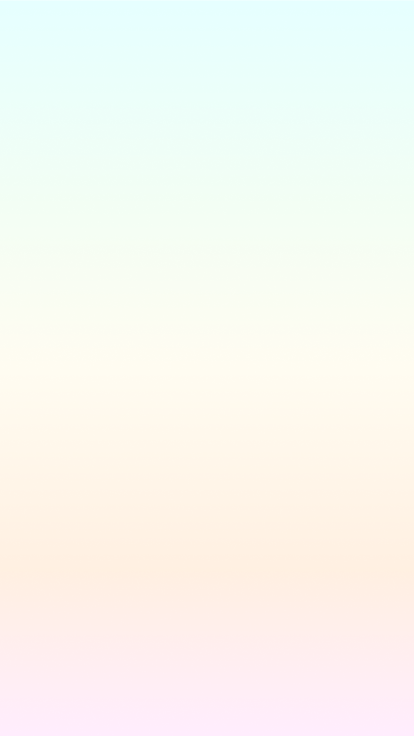
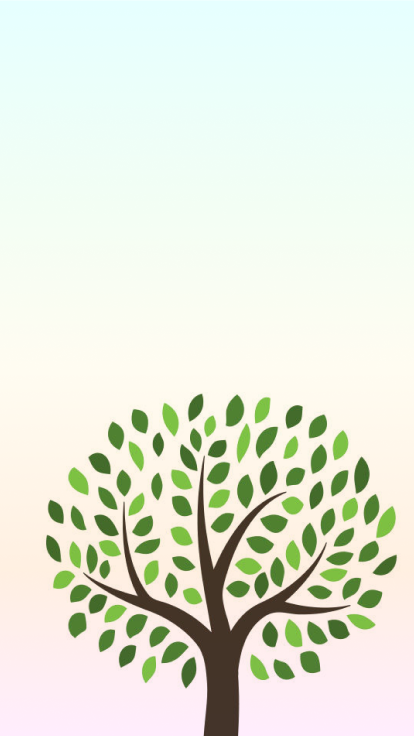
title page formatting

Changed region(s): [[0.087, 0.5312, 0.9565, 1.0]]

diff --git a/habit_planter/templates/habit_planter/title.html b/habit_planter/templates/habit_planter/title.html
@@ -16,9 +16,30 @@
 
 
 <body>
-<br /><br /><br /><br /><br/>
-    <h1> Habit Planter </h1>
+    <div class="container">
+        <img class="background" src="{% static 'habit_planter/images/title_bg.png' %}">
+        <h1 style="font-family:'Quicksand';"> artistree </h1>
 
+        <a href="{% url 'survey_name' %}">
+            <h2> start your journey > </h2>
+        </a>
+    </div>
 </body>
+
+<style>
+    h1 {
+        top: 20%;
+        left: 27%;
+        font-size:120px;
+    }
+    h2 {
+        position:absolute;
+        font-size:60px;
+        top: 40%;
+        left: 22%;
+        color: #1C6F1F;
+    }
+
+</style>
 
 </html>
